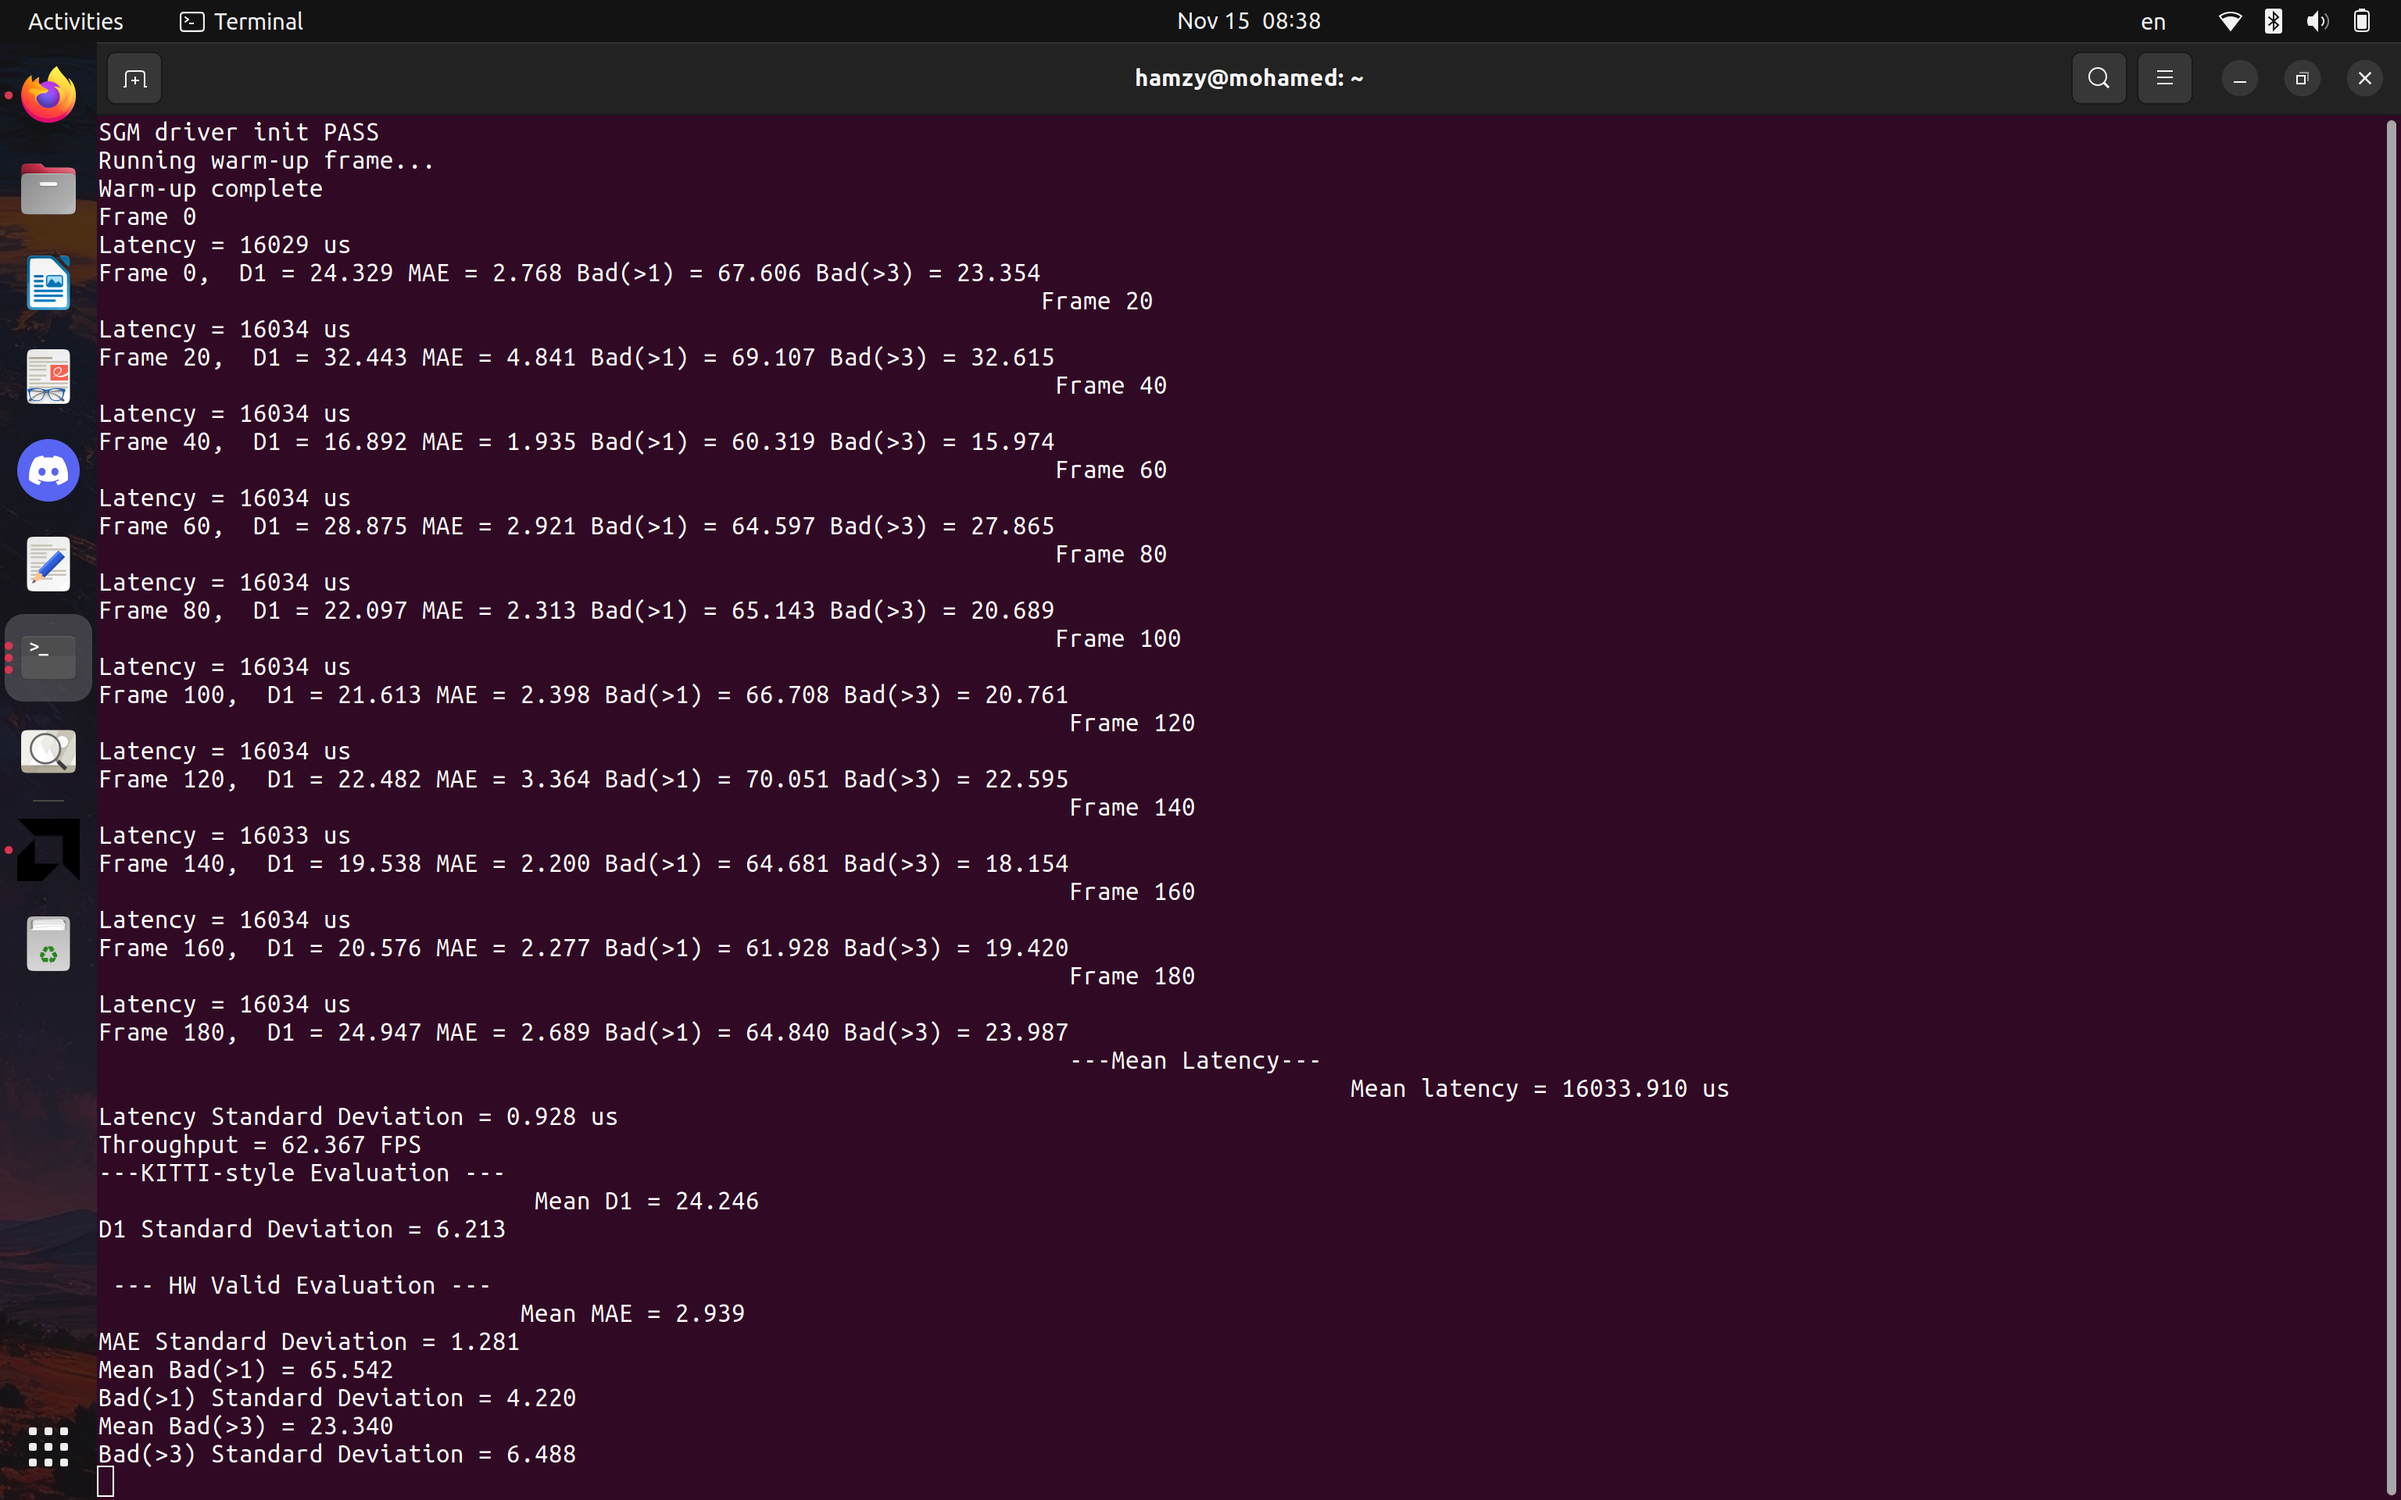
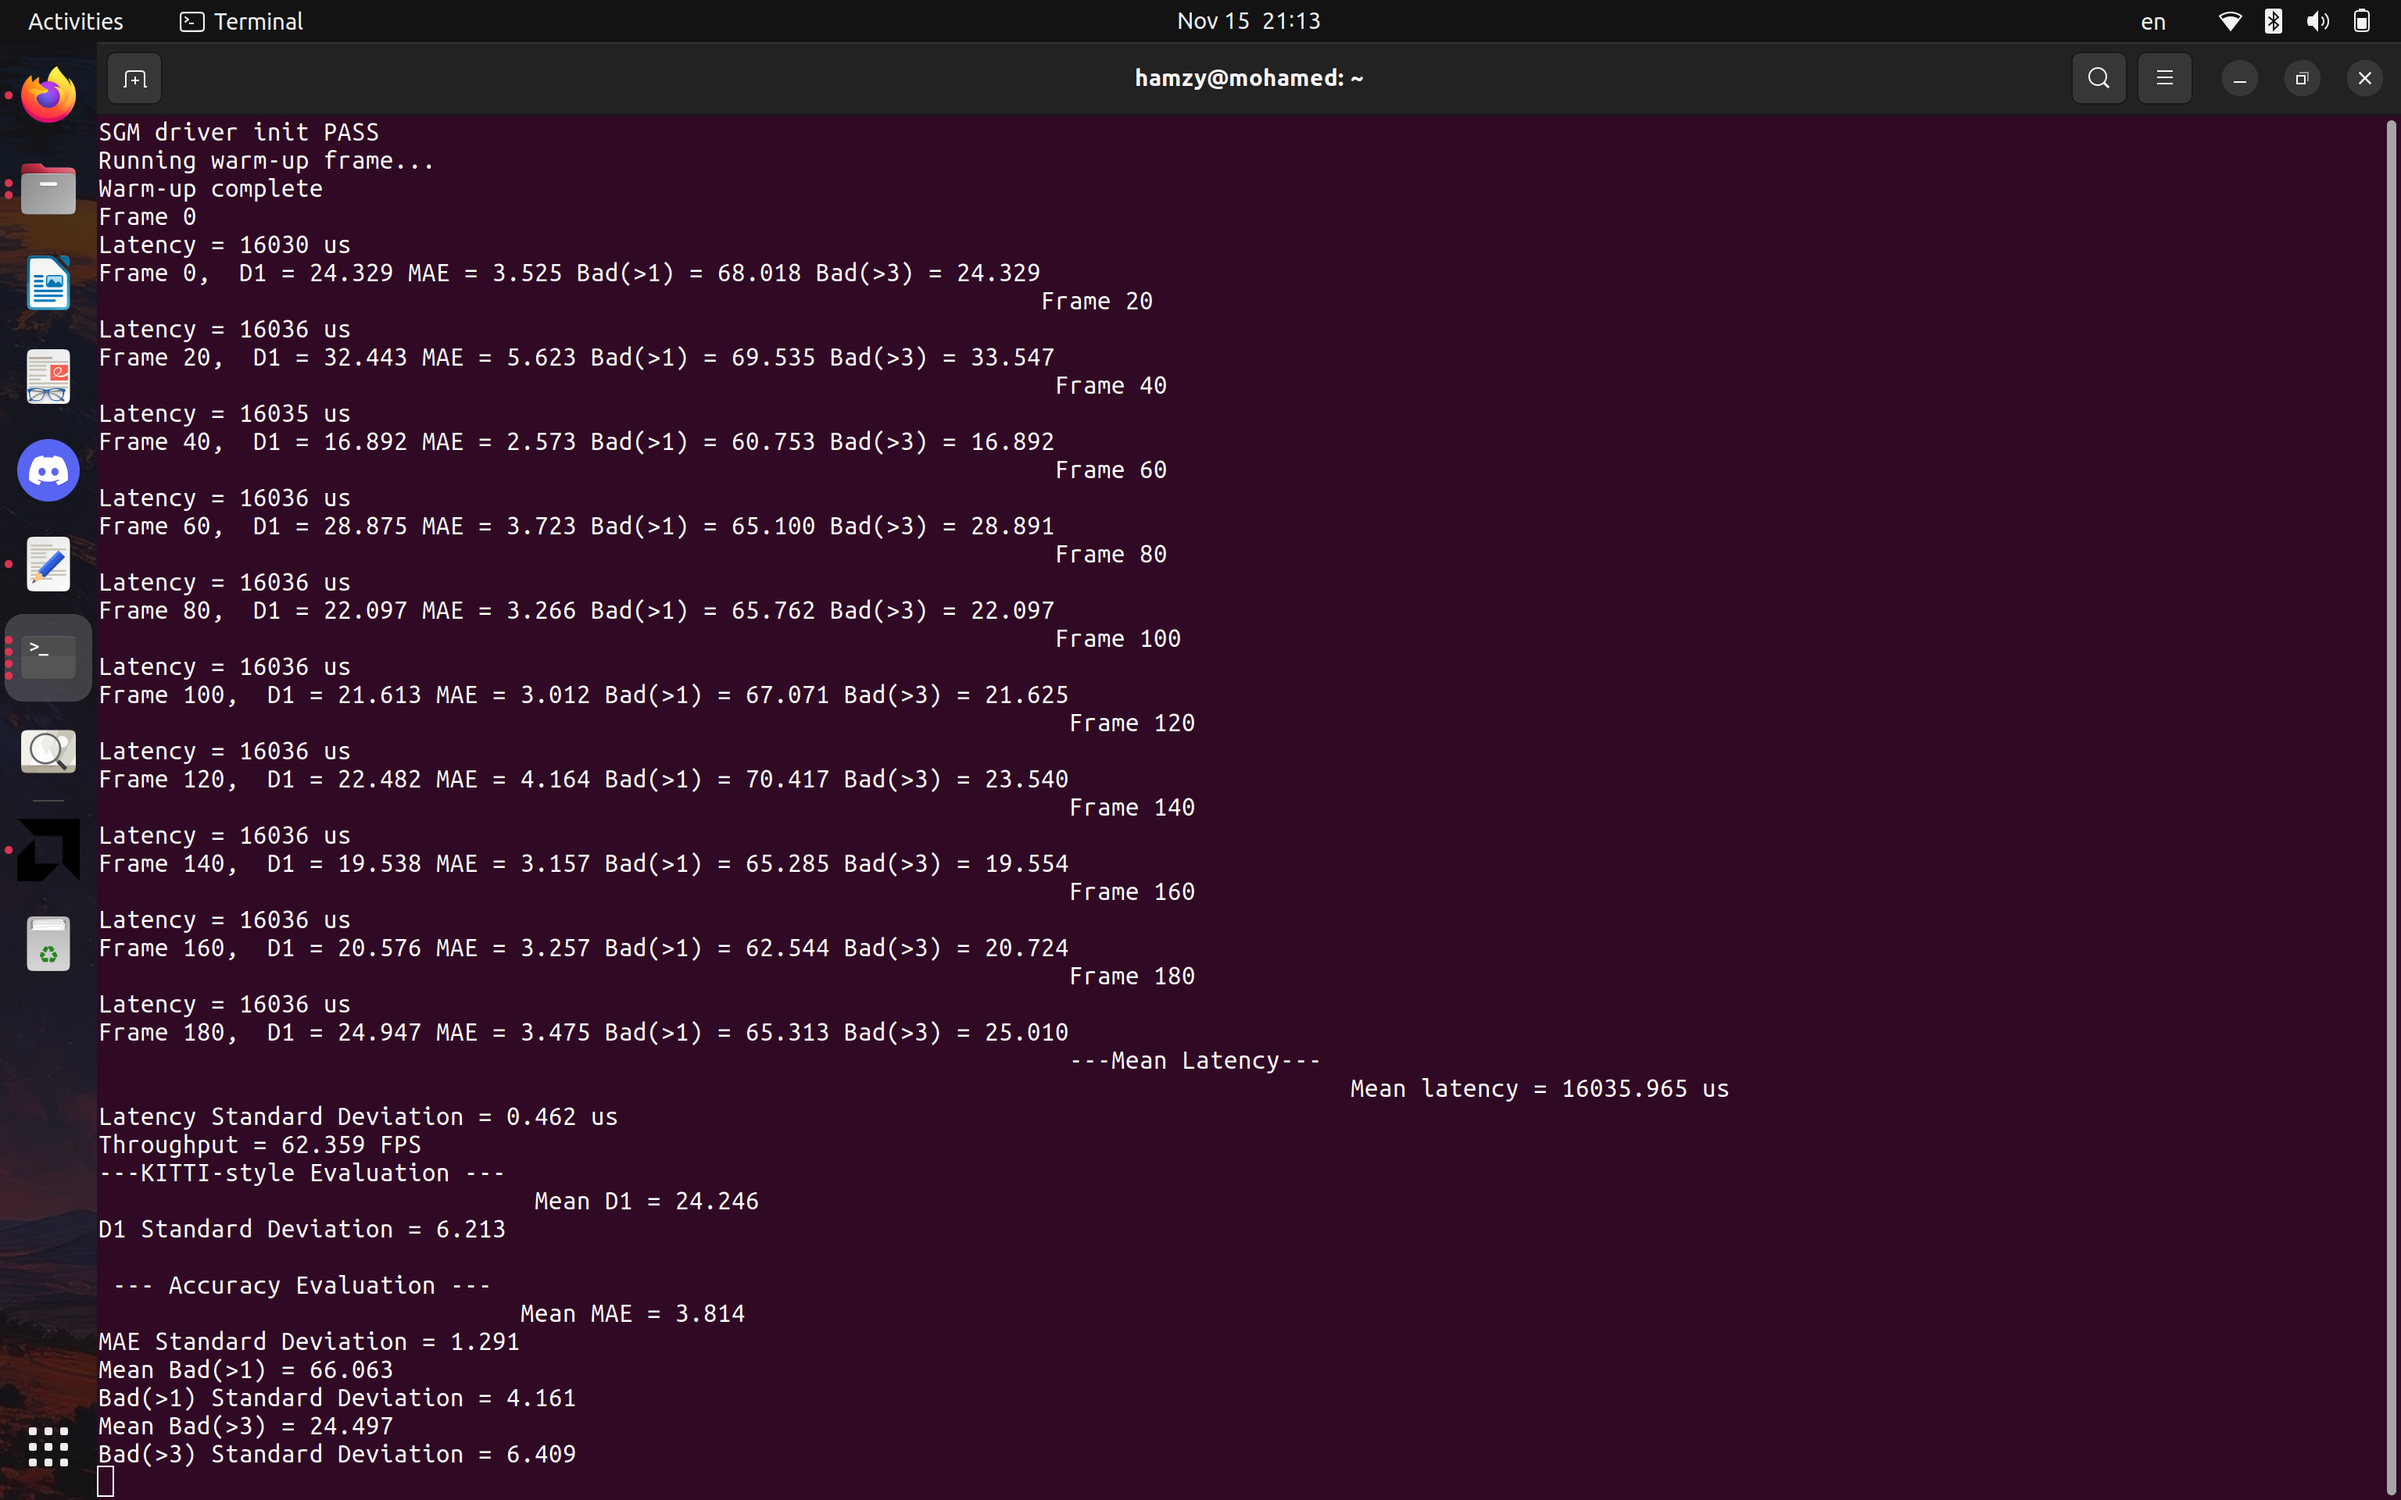
main: update evaluation criteria to include all gt valid pixels

diff --git a/ps_profile/main.cpp b/ps_profile/main.cpp
@@ -10,7 +10,7 @@
 #include "dataset_frames.hpp"
 
 #define CHECK_OUTPUT 0
-#define PROFILE_STAGES 1
+#define PROFILE_STAGES 0
 
 #define LEFT_BRAM_BASE 	XPAR_AXI_BRAM_CTRL_0_S_AXI_BASEADDR
 #define RIGHT_BRAM_BASE XPAR_AXI_BRAM_CTRL_1_S_AXI_BASEADDR
@@ -20,12 +20,10 @@ int main ()
 {
 	/* Evaluation metrics */
 	int kitti_valid_frame = 0;
-	int hw_valid_frame = 0;
 
 	double total_kitti_d1_error = 0;
 	double total_mae = 0;
 	double total_Bad1_error = 0, total_Bad3_error = 0;
-	int invalid_selected_count = 0;
 
 	uint64_t total_latency = 0;
 
@@ -41,14 +39,7 @@ int main ()
 	static double bad3_per_frame[NUM_FRAMES];
 	static uint32_t latency_per_frame[NUM_FRAMES];
 
-	const int cx = WIN >> 1;
-	const int cy = WIN >> 1;
-
 	static uint8_t disp_img[IMG_H][IMG_W];
-
-	const int valid_r_min = WIN - 1 - cy;
-	const int valid_r_max = IMG_H - 1 - cy;
-	const int valid_c_max = IMG_W - cx;
 
 	xil_printf("Starting Variant B - PL-PS SGM evaluation... \r\n");
 
@@ -221,8 +212,6 @@ XTime t0, t1;
 	int kitti_valid_count = 0;
 	int kitti_invalid_count = 0;
 
-	int hw_valid_count = 0, hw_invalid_count = 0;
-
 	int bad1 = 0, bad3 = 0;
 	double sum_abs_err = 0.0;
 
@@ -232,9 +221,6 @@ XTime t0, t1;
 		{
 			float gt_disp = gt_frames[i][r][c];
 			float est_disp = disp_img[r][c];
-
-			if(r >= valid_r_min && est_disp > c)
-				++invalid_selected_count;
 
 			bool gt_valid = gt_disp > 0.0f;
 			if(!gt_valid)
@@ -246,6 +232,10 @@ XTime t0, t1;
 			++kitti_valid_count;
 			float err = (std::abs(est_disp - gt_disp)) / scale_x;
 
+	    	sum_abs_err += err;
+	    	if (err > 1.0f) bad1++;
+	    	if (err > 3.0f) bad3++;
+
 			/* Kitt-style D1 */
 			bool abs_error_gt3 = err > 3.0f;
 			bool rel_error_gt5 = ((err / (gt_disp/scale_x)) > 0.05f);
@@ -254,25 +244,6 @@ XTime t0, t1;
 			{
 				++kitti_d1_err;
 			}
-
-	        bool roi_valid = (r >= valid_r_min) && (r <= valid_r_max)
-	        		&& (c < valid_c_max);
-
-	        bool disp_range_valid = (gt_disp < DISP) && (gt_disp <= c);
-
-	        bool hw_valid = roi_valid && disp_range_valid;
-
-	    	if(!hw_valid)
-	    	{
-	    		++hw_invalid_count;
-	    	}
-	    	else
-	    	{
-		    	++hw_valid_count;
-		    	sum_abs_err += err;
-		    	if (err > 1.0f) bad1++;
-		    	if (err > 3.0f) bad3++;
-	    	}
 	    }
 	}
 	double current_kitti_error = 0.0f;
@@ -285,28 +256,19 @@ XTime t0, t1;
     	current_kitti_error = (100.0 * kitti_d1_err / kitti_valid_count);
     	++kitti_valid_frame;
     	total_kitti_d1_error += current_kitti_error;
-    }
-    else
-    {
-        xil_printf( "ERROR: No KITTI-valid GT pixels at frame %d\n", i);
-        return 5;
-    }
 
-    if(hw_valid_count > 0)
-    {
-    	++hw_valid_frame;
-    	current_mae = (sum_abs_err / hw_valid_count);
-		current_bad1 = (100.0 * bad1 / hw_valid_count);
-		current_bad3= (100.0 * bad3 / hw_valid_count);
+    	current_mae = (sum_abs_err / kitti_valid_count);
+		current_bad1 = (100.0 * bad1 / kitti_valid_count);
+		current_bad3= (100.0 * bad3 / kitti_valid_count);
 
 		total_mae += current_mae;
 		total_Bad1_error += current_bad1;
 		total_Bad3_error +=current_bad3;
     }
-    if (hw_valid_count == 0)
+    else
     {
-        xil_printf("ERROR: No HW-valid GT pixels for comparison at frame: %d\n", i);
-        return 6;
+        xil_printf( "ERROR: No KITTI-valid GT pixels at frame %d\n", i);
+        return 5;
     }
 
 	d1_per_frame[i] = current_kitti_error;
@@ -333,15 +295,7 @@ XTime t0, t1;
     	xil_printf("ERROR: GT validity counts do not match image "
     			"size at frame: %d\n", i);
     }
-
-    if((hw_invalid_count + hw_valid_count) != kitti_valid_count)
-    {
-    	xil_printf ("ERROR: HW-valid + HW-excluded counts do not match"
-    			" KITTI-valid count at frame: %d", i);
-    }
-
-
-	}
+}
 ////////////////////////////////////////////////////////////////////////////////
 	/////////////////////////////////////////////////////////////////
 		if(NUM_FRAMES > 0)
@@ -421,8 +375,6 @@ XTime t0, t1;
 	    			output_ms_x1000/1000, output_ms_x1000%1000);
 	    	xil_printf("Share = %u.%02u %%\r\n",
 	    			pct_output_x100/100, pct_output_x100%100);
-
-
 	#endif
 		}
 
@@ -447,17 +399,17 @@ XTime t0, t1;
 	    	xil_printf("D1 Standard Deviation = %u.%03u\r\n", std_d1_x1000/1000, std_d1_x1000%1000);
 		}
 
-		if(hw_valid_frame > 0)
+		if(kitti_valid_frame > 0)
 		{
-			xil_printf("\n --- HW Valid Evaluation --- \n ");
+			xil_printf("\n --- Accuracy Evaluation --- \n ");
 
-			double mean_mae = total_mae / hw_valid_frame;
+			double mean_mae = total_mae / kitti_valid_frame;
 			double mae_squared_diff_sum = 0.0;
 
-			double mean_bad1 = total_Bad1_error / hw_valid_frame;
+			double mean_bad1 = total_Bad1_error / kitti_valid_frame;
 			double bad1_squared_diff_sum = 0.0;
 
-			double mean_bad3 = total_Bad3_error / hw_valid_frame;
+			double mean_bad3 = total_Bad3_error / kitti_valid_frame;
 			double bad3_squared_diff_sum = 0.0;
 
 			for(int i = 0; i < NUM_FRAMES; ++i)
@@ -473,9 +425,9 @@ XTime t0, t1;
 				double bad3_diff = bad3_per_frame[i] - mean_bad3;
 				bad3_squared_diff_sum += bad3_diff * bad3_diff;
 			}
-			double std_mae = std::sqrt(mae_squared_diff_sum / hw_valid_frame);
-			double std_bad1 = std::sqrt(bad1_squared_diff_sum / hw_valid_frame);
-			double std_bad3 = std::sqrt(bad3_squared_diff_sum / hw_valid_frame);
+			double std_mae = std::sqrt(mae_squared_diff_sum / kitti_valid_frame);
+			double std_bad1 = std::sqrt(bad1_squared_diff_sum / kitti_valid_frame);
+			double std_bad3 = std::sqrt(bad3_squared_diff_sum / kitti_valid_frame);
 
 	        unsigned int mean_mae_x1000  = (unsigned int)((mean_mae * 1000.0));
 	        unsigned int std_mae_x1000  = (unsigned int)((std_mae * 1000.0));
